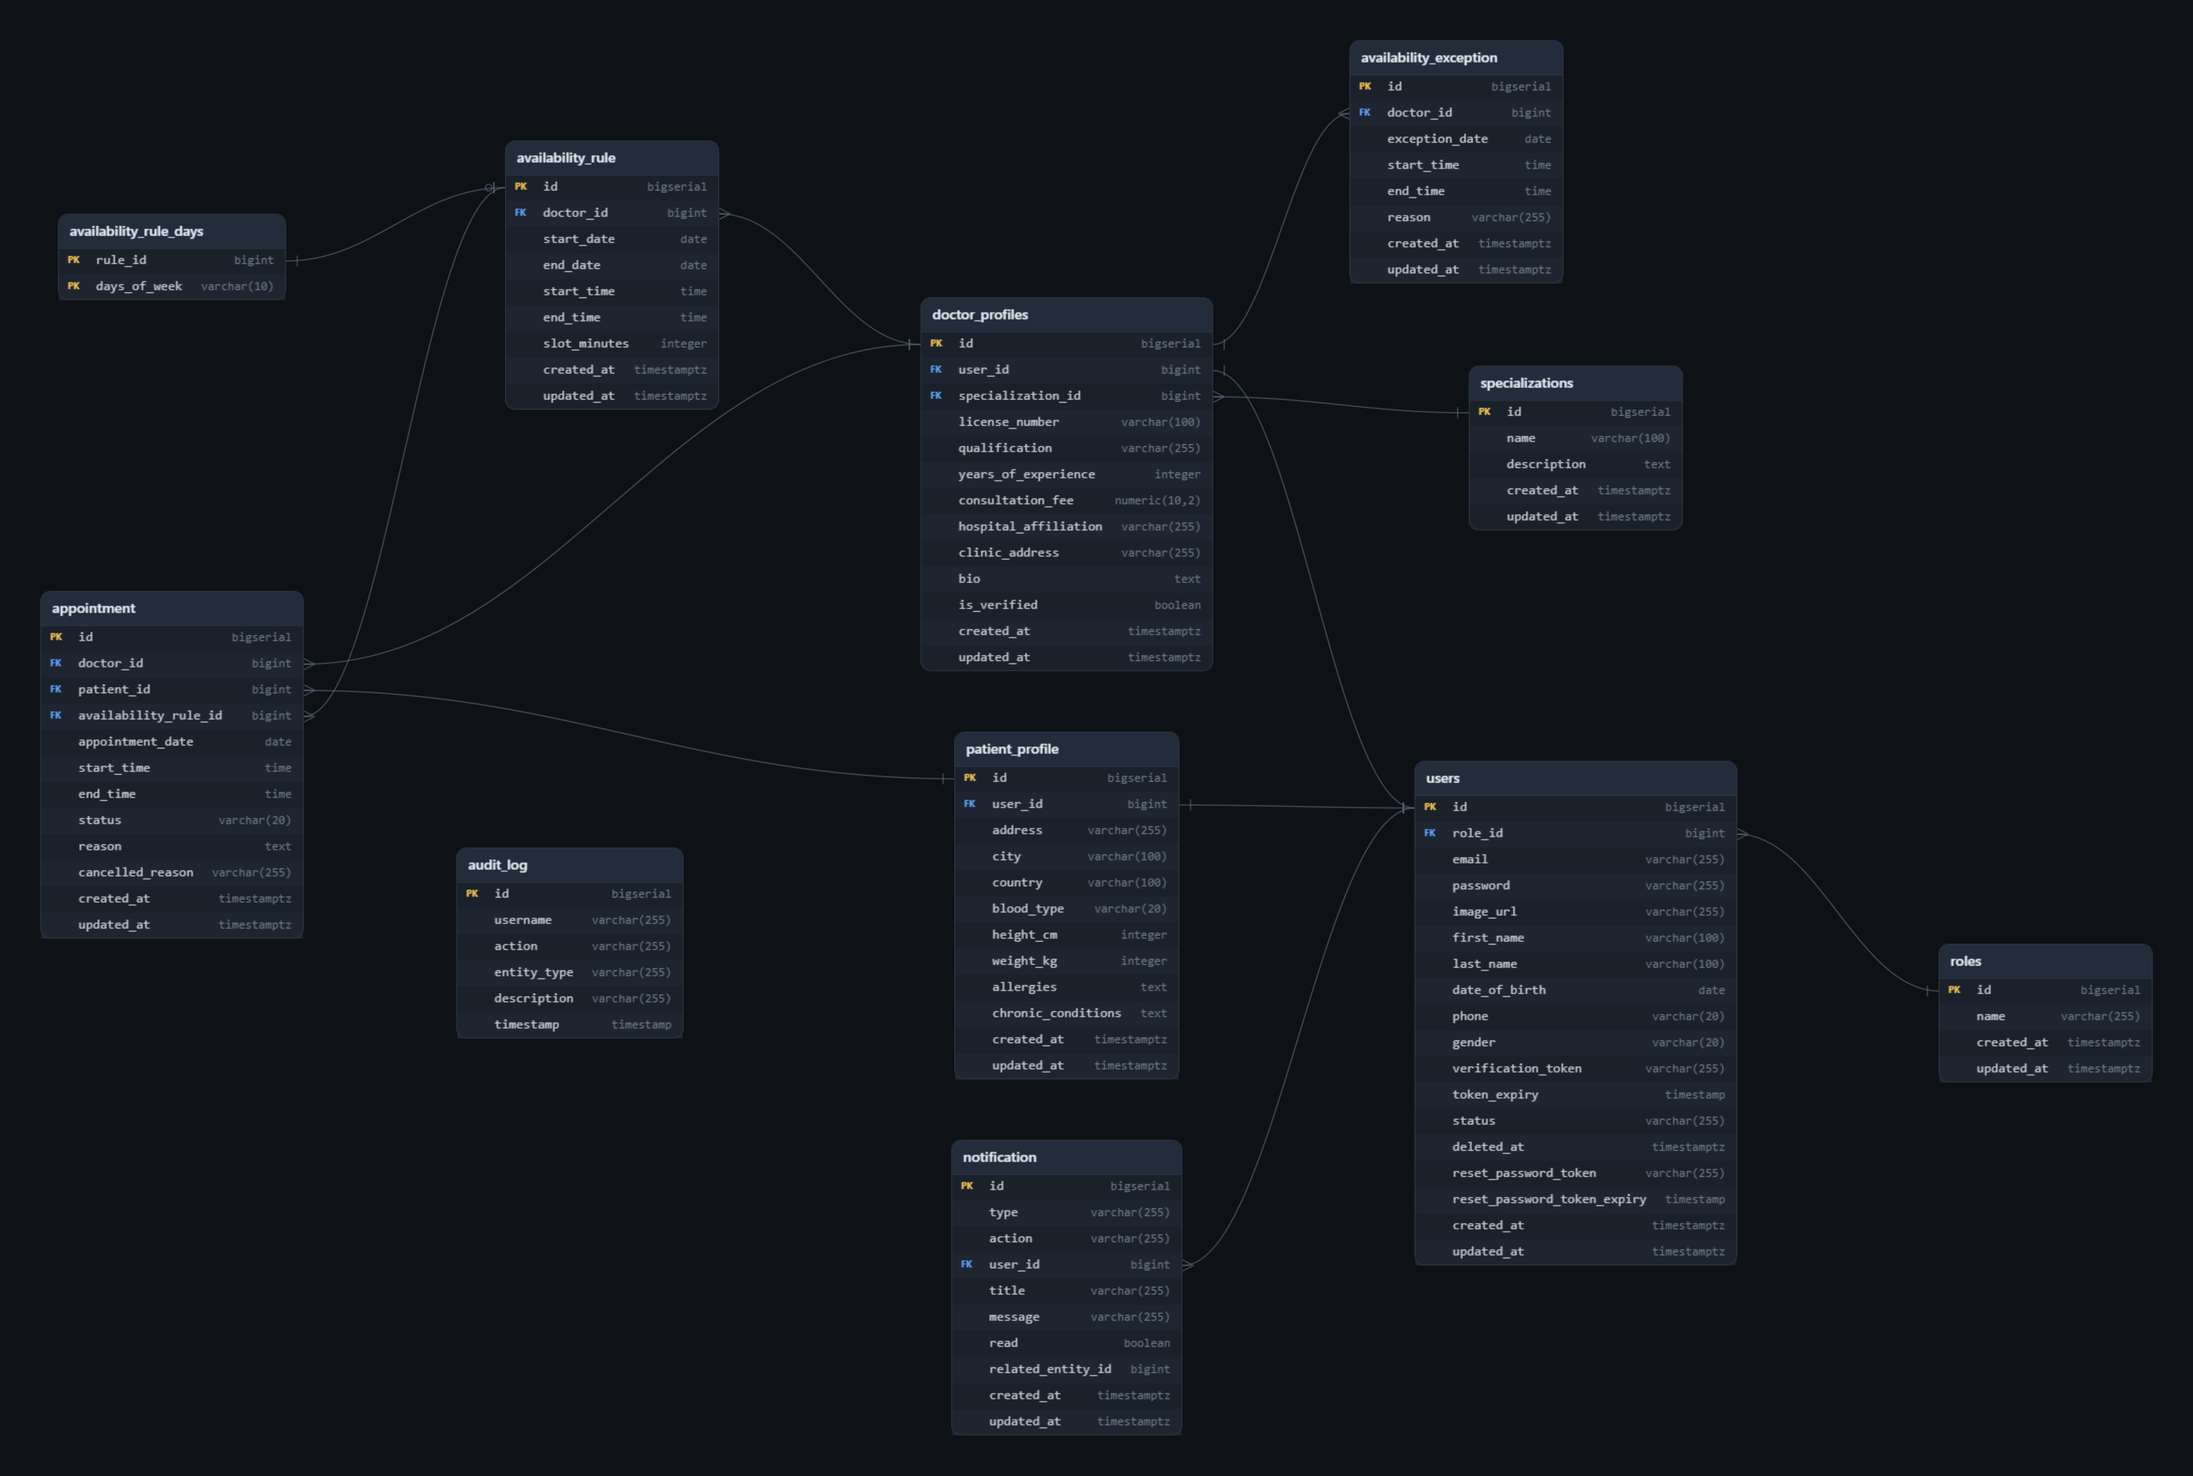
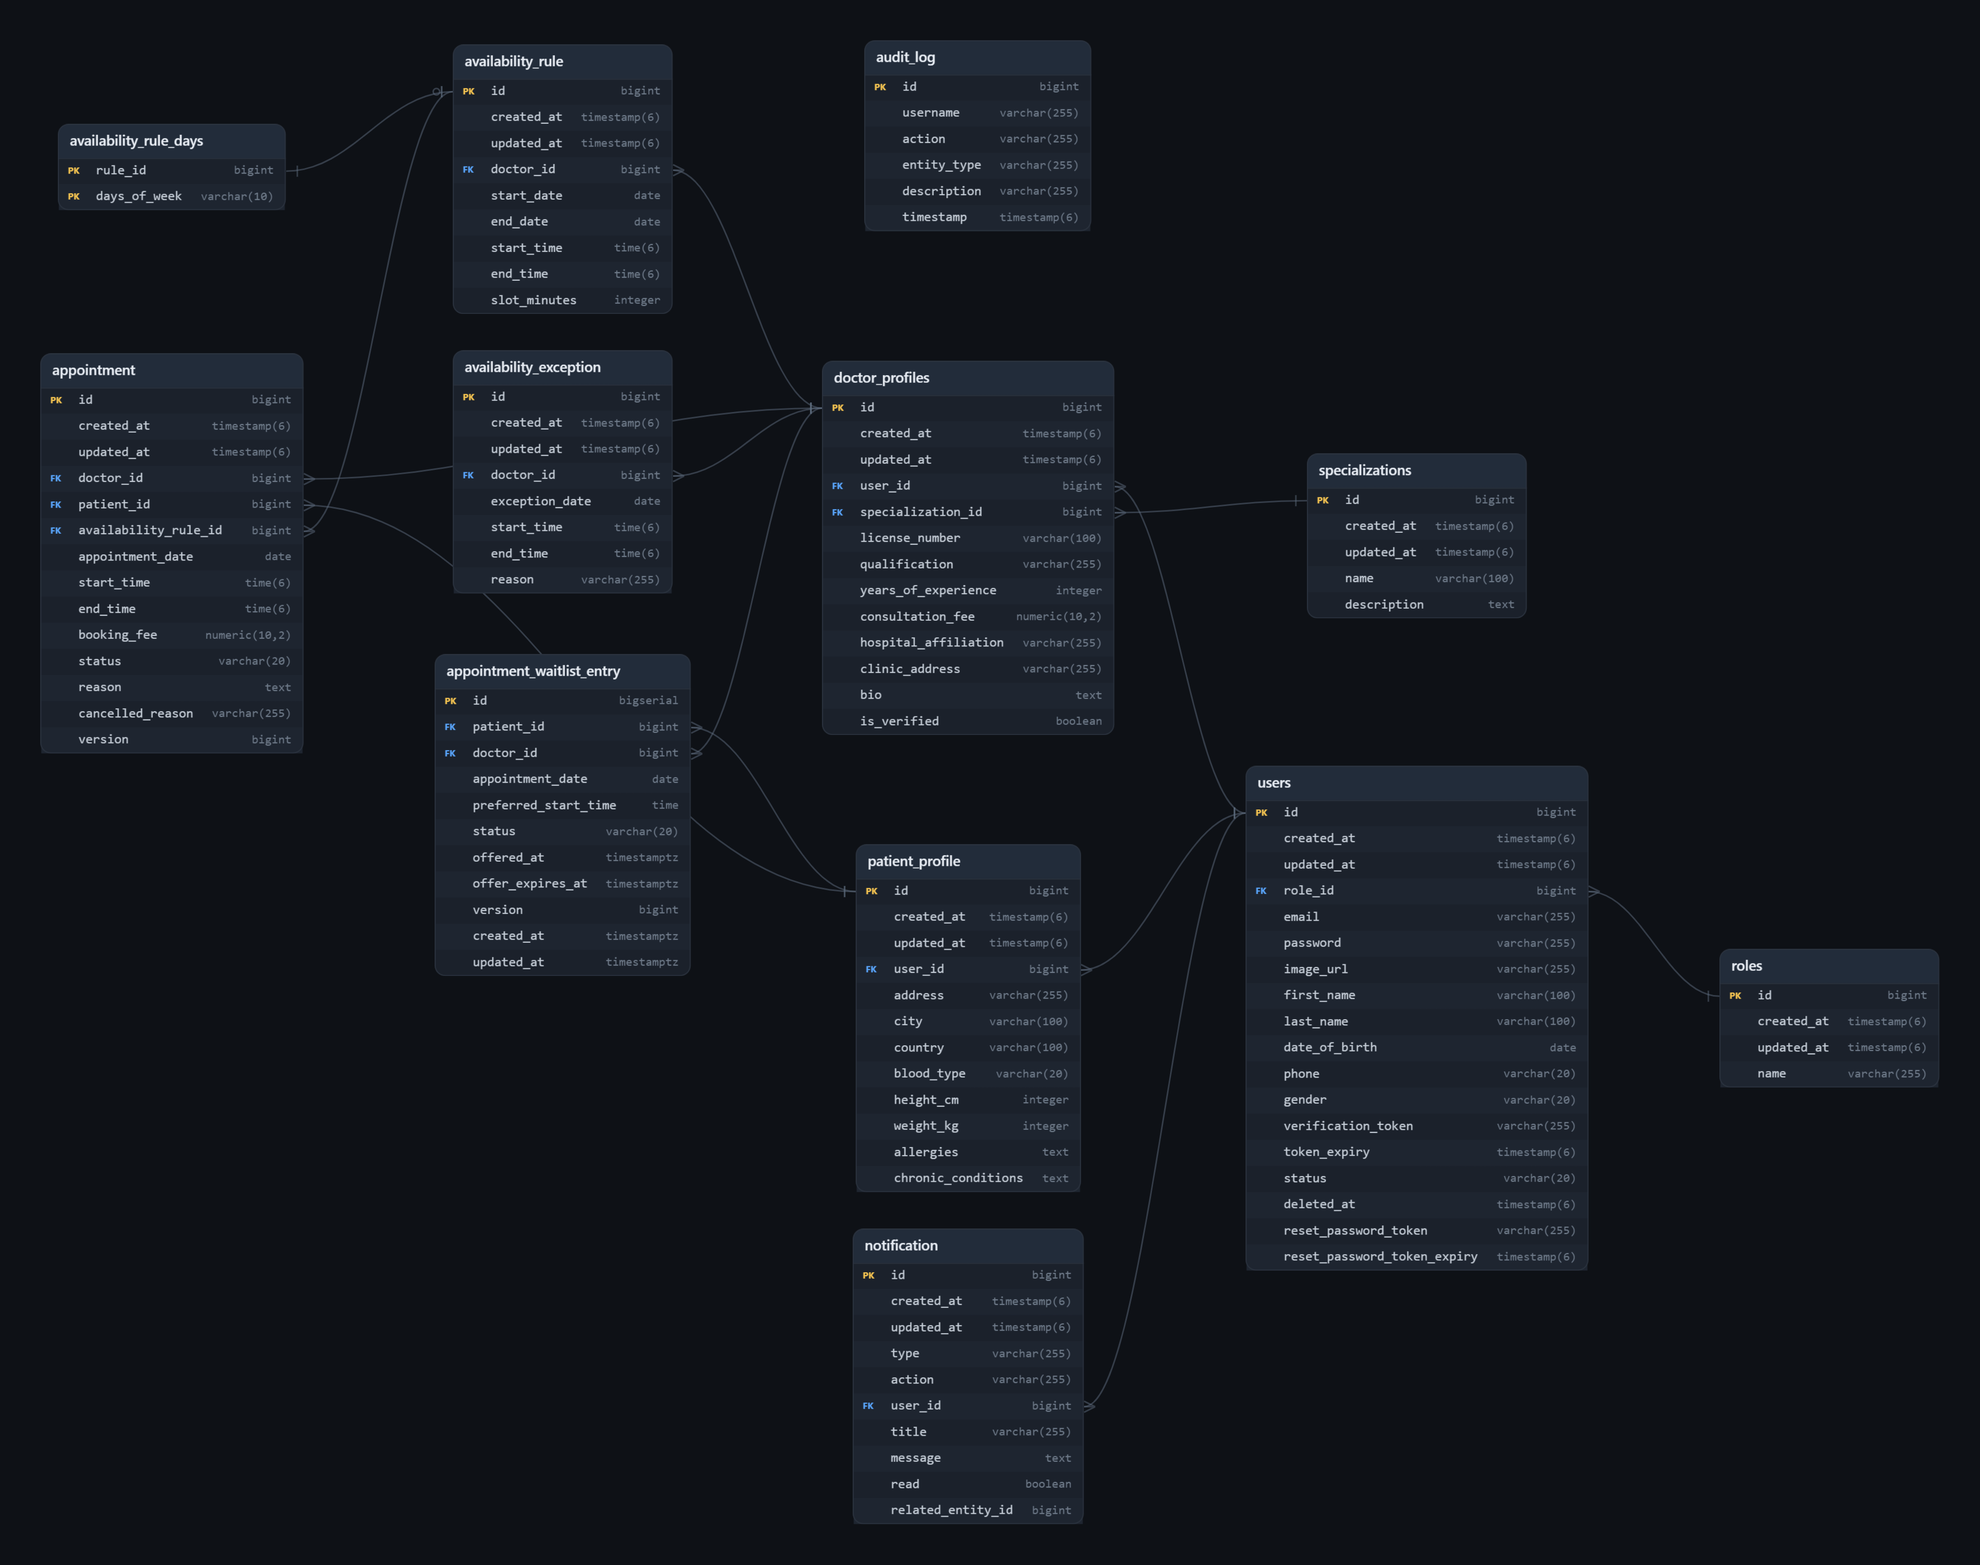
update readme and erd

diff --git a/Readme.md b/Readme.md
@@ -11,13 +11,12 @@ while doctors can manage their schedules, availability rules, and appointment hi
 - **Role-Based Access Control:** Distinct roles for Patients, Doctors, and Administrators.
 - **Secure Authentication:** JWT-based authentication with email verification and password recovery.
 - **Profile Management:** Users can manage their profiles and upload avatars.
-- **Advanced Booking System:** Real-time availability calculation based on doctor-defined schedules and exceptions.
-  Double-booking prevention.
+- **Advanced Booking System:** Real-time availability calculation based on doctor-defined schedules and exceptions, with
+  transaction-safe booking, rescheduling, and double-booking prevention.
 - **Priority Appointment Waitlist:** Patients can queue for one exact booked slot. When it is released, the earliest
-  eligible patient receives a time-limited offer that reserves the slot until accepted, declined, or expired.
+  eligible patient receives a 15-minute offer that reserves the slot until accepted, declined, or expired.
 - **Real-Time & Email Notifications:** Server-Sent Events (SSE) push notifications for appointment updates, with
-  matching
-  styled email notifications.
+  matching styled email notifications dispatched after the business transaction commits.
 - **Security & Reliability:** Global exception handling, API rate limiting using Redis, and comprehensive audit logging.
 - **API Documentation:** Interactive Swagger/OpenAPI documentation.
 
@@ -93,24 +92,34 @@ slots in real-time by:
 2. Generating a virtual schedule of time slots in memory.
 3. Fetching and applying `AvailabilityException`s to cross out unavailable times.
 4. Fetching existing `Appointment`s and active waitlist offers to label each valid scheduled slot as `AVAILABLE`,
-   `BOOKED`, or `OFFERED`.
+   `BOOKED`, or `WAITLIST_OFFERED`.
 5. Returning valid slots, including booked slots, so a patient calendar can offer waitlist entry where appropriate.
 
 This approach guarantees high performance, negligible storage requirements, and immediate reflection of any schedule
 changes.
 
-## General Approach
+### Booking Concurrency and Priority Waitlist
 
-The project was developed incrementally, starting with the core entity modeling and database design. Following this, the
-authentication system (JWT) and role management were implemented. With secure access in place, the core business
-entities (Profiles, Availability Rules) were built out. The most complex feature—the booking engine—was implemented
-next, incorporating rules, exceptions, and double-booking guards. Finally, auxiliary features such as real-time SSE
-notifications, file uploads, rate limiting, and audit logging were integrated.
+- **Booking:** Patient-row locks prevent overlapping bookings; PostgreSQL slot-level advisory locks serialize requests
+  for the same slot, and a partial unique index prevents duplicate active appointments.
+- **Rescheduling:** `Appointment.version` rejects stale updates; patient and consistently ordered slot locks protect the
+  change, and a failed reschedule preserves the original appointment.
+- **Waitlist:** Partial unique indexes prevent duplicate active entries and multiple offers for one slot. Released slots
+  are offered in queue order for 15 minutes; active offers block ordinary bookings, while decline or expiry advances the
+  queue.
 
-## User Stories
+See the [Concurrency Guide](docs/CONCURRENCY.md) for implementation details.
 
-User stories and project tracking were managed on Trello:
-[View User Stories on Trello](https://trello.com/b/9VwIYDT1/medic)
+### Appointment Notification Delivery
+
+Appointment notifications are saved in the same transaction as the booking, rescheduling, or cancellation. After the
+transaction commits, Medic sends real-time updates through SSE and schedules emails using a thread pool (2 core threads,
+up to 4, with a queue for 100 tasks).
+
+## Project Planning and User Stories
+
+The implementation plan is in [`docs/Project_3_Planning.md`](docs/Project_3_Planning.md). User stories and project
+tracking are maintained on the [Medic Trello board](https://trello.com/b/9VwIYDT1/medic).
 
 ## Entity Relationship Diagram (ERD)
 
@@ -124,69 +133,10 @@ logic.
 Interactive Swagger documentation is available at `http://localhost:8080/swagger-ui.html` when the application is
 running.
 
-### API Endpoints
+## Testing
 
-| Request Type | URL                                                | Functionality                                                       | Access          |
-|--------------|----------------------------------------------------|---------------------------------------------------------------------|-----------------|
-| POST         | `/auth/users/login`                                | User login                                                          | Public          |
-| POST         | `/auth/users/register/patient`                     | Patient registration                                                | Public          |
-| POST         | `/auth/users/register/doctor`                      | Doctor registration                                                 | Public          |
-| POST         | `/auth/users/register/admin`                       | Admin registration                                                  | Admin           |
-| GET          | `/auth/users/verify`                               | Verify email address                                                | Public          |
-| POST         | `/auth/users/forgot-password`                      | Request password reset                                              | Public          |
-| POST         | `/auth/users/reset-password`                       | Reset password                                                      | Public          |
-| POST         | `/auth/users/change-password`                      | Change password                                                     | Authenticated   |
-| POST         | `/auth/users/logout`                               | User logout                                                         | Authenticated   |
-| GET          | `/user`                                            | Retrieve user account                                               | Authenticated   |
-| PUT          | `/user`                                            | Update user account details                                         | Authenticated   |
-| PATCH        | `/user/avatar`                                     | Upload profile picture                                              | Authenticated   |
-| PATCH        | `/profile/patient`                                 | Update patient profile                                              | Patient         |
-| PATCH        | `/profile/doctor`                                  | Update doctor profile                                               | Doctor          |
-| GET          | `/patient/appointments`                            | Get patient appointments                                            | Patient         |
-| GET          | `/patient/appointments/status-counts`              | Count patient appointments by status                                | Patient         |
-| GET          | `/appointments/{appointmentId}`                    | Get appointment details                                             | Patient, Doctor |
-| POST         | `/patient/appointments`                            | Book an appointment                                                 | Patient         |
-| POST         | `/patient/waitlist`                                | Join waitlist for one exact slot                                    | Patient         |
-| GET          | `/patient/waitlist`                                | List my waitlist entries                                            | Patient         |
-| DELETE       | `/patient/waitlist/{id}`                           | Withdraw or decline a waitlist entry                                | Patient         |
-| POST         | `/patient/waitlist/{id}/accept`                    | Accept offer and book slot                                          | Patient         |
-| PUT          | `/patient/appointments/{appointmentId}/reschedule` | Reschedule a future appointment                                     | Patient         |
-| PUT          | `/patient/appointments/{id}/cancel`                | Cancel an appointment                                               | Patient         |
-| GET          | `/patient/appointments/doctors/{id}/availability`  | View doctor availability                                            | Patient         |
-| GET          | `/doctors/availability/day?date=dd/MM/yyyy`        | Get the authenticated doctor's open ranges (e.g. 1:00 PM - 2:00 PM) | Doctor          |
-| GET          | `/doctors/appointments`                            | Get doctor appointment history                                      | Doctor          |
-| GET          | `/doctors/appointments/status-counts`              | Count doctor appointments by status                                 | Doctor          |
-| PATCH        | `/doctors/appointments/{appointmentId}/status`     | Update appointment outcome                                          | Doctor          |
-| GET          | `/appointments/statuses`                           | List appointment statuses                                           | Patient, Doctor |
-| GET          | `/doctors/availability/calendar`                   | Get doctor calendar                                                 | Doctor          |
-| GET          | `/doctors/availability/rules`                      | List availability rules                                             | Doctor          |
-| POST         | `/doctors/availability/rules`                      | Create availability rule                                            | Doctor          |
-| PUT          | `/doctors/availability/rules/{id}`                 | Update availability rule                                            | Doctor          |
-| DELETE       | `/doctors/availability/rules/{id}`                 | Delete availability rule                                            | Doctor          |
-| GET          | `/doctors/availability/exceptions`                 | List availability exceptions                                        | Doctor          |
-| POST         | `/doctors/availability/exceptions`                 | Create availability exception                                       | Doctor          |
-| PUT          | `/doctors/availability/exceptions/{id}`            | Update availability exception                                       | Doctor          |
-| DELETE       | `/doctors/availability/exceptions/{id}`            | Delete availability exception                                       | Doctor          |
-| GET          | `/notifications?page=0&size=20&unreadOnly=true`    | List notifications; `unreadOnly=true` filters unread items          | Authenticated   |
-| GET          | `/notifications/unread-count`                      | Get my unread notification count                                    | Authenticated   |
-| PATCH        | `/notifications/{notificationId}/read`             | Mark one notification as read                                       | Authenticated   |
-| PATCH        | `/notifications/read-all`                          | Mark all my notifications as read                                   | Authenticated   |
-| GET          | `/notifications/subscribe`                         | Connect to real-time notifications                                  | Authenticated   |
-| PATCH        | `/admin/doctors/{id}/verify`                       | Verify a doctor profile                                             | Admin           |
-| DELETE       | `/admin/users/{userId}`                            | Soft delete a user                                                  | Admin           |
-| GET          | `/audit-logs`                                      | Get all audit logs                                                  | Authenticated   |
-
-### Appointment notification delivery
-
-Appointment notifications are saved in the same transaction as the booking, rescheduling, or cancellation. After the
-transaction commits, Medic sends real-time updates through SSE and schedules emails using a thread pool (2 core threads,
-up to 4, with a queue for 100 tasks).
-
-If an email fails, the error is logged and the appointment remains saved. If the email system is too busy, the request
-thread may send the email itself, which can delay the response.
-
-Emails are not stored in a separate queue for retry. If the application stops after the transaction commits but before
-the email is scheduled, the email may be lost, but the appointment and notification remain saved.
+H2 tests cover business workflows; PostgreSQL/Testcontainers tests cover constraints and concurrency (Docker required).
+Run the suite with `./mvnw test`; see the [Concurrency Guide](docs/CONCURRENCY.md) for details.
 
 ## Installation
 
@@ -238,16 +188,20 @@ Follow these steps to run the application locally:
 - **Availability Engine:** Calculating precise 15-minute appointment slots based on dynamic weekly schedules while
   excluding specific date/time exceptions and already booked appointments proved mathematically and logically
   challenging.
+- **Concurrency Control:** Preventing duplicate bookings and patient overlaps required coordinating patient-row locks,
+  exact-slot advisory locks, optimistic versions, and PostgreSQL constraints.
+- **Waitlist Priority:** Releasing a slot and offering it to the next eligible patient had to remain atomic with booking
+  operations so an ordinary request could not take a slot during an active offer.
 
 ## Future Improvements
 
-- **Integration Testing:** Expand test coverage by using the dedicated `test` profile (with the configured in-memory H2
-  database) for comprehensive integration testing, rather than relying solely on mocked unit tests.
+- **Broader API Testing:** Extend the existing H2 and PostgreSQL/Testcontainers suites to cover additional availability,
+  booking, and waitlist edge cases.
 - **Redis Caching for Availability:** Optimize performance by caching the results of `computeAvailableSlots` in Redis.
   This cache will be strategically invalidated and refreshed only when a doctor updates their availability rules or
   exceptions.
-- **Frontend:** Implement a complete frontend application (React) to consume the API.
-- **Integration Testing:** Implement more robust API testing covering the booking engine edge cases.
+- **Durable Email Delivery:** Add a transactional outbox and retry mechanism so committed notifications can be emailed
+  after a process restart or temporary mail-service failure.
 
 ## Credits & Resources
 
@@ -267,3 +221,5 @@ Follow these steps to run the application locally:
 - Server-Sent Events
   (SSE): [Medium](https://medium.com/@vishalpriyadarshi/real-time-event-streaming-in-spring-boot-using-server-sent-events-sse-a-guide-for-modern-f1048d3f5796)
 - Spring Data JPA Specification: [Dev.to](https://dev.to/saladlam/spring-data-jpa-about-specification-interface-56ed)
+- AI assistance: [OpenAI ChatGPT](https://chatgpt.com/) was used for learning and code enhancement; suggestions were
+  reviewed against the application.
